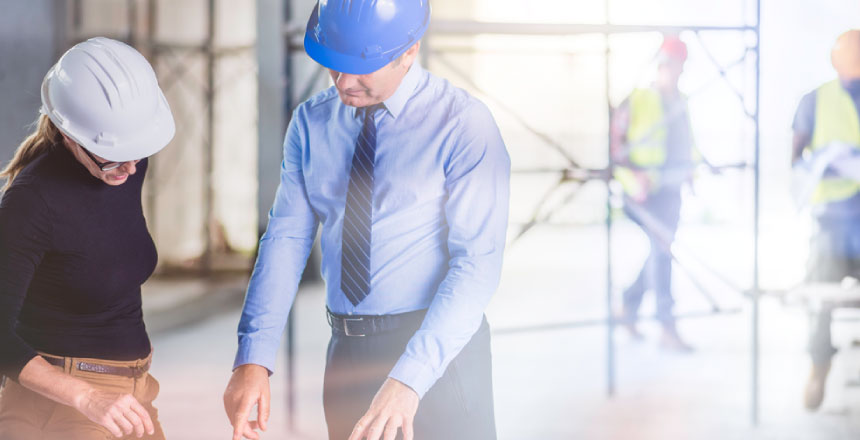
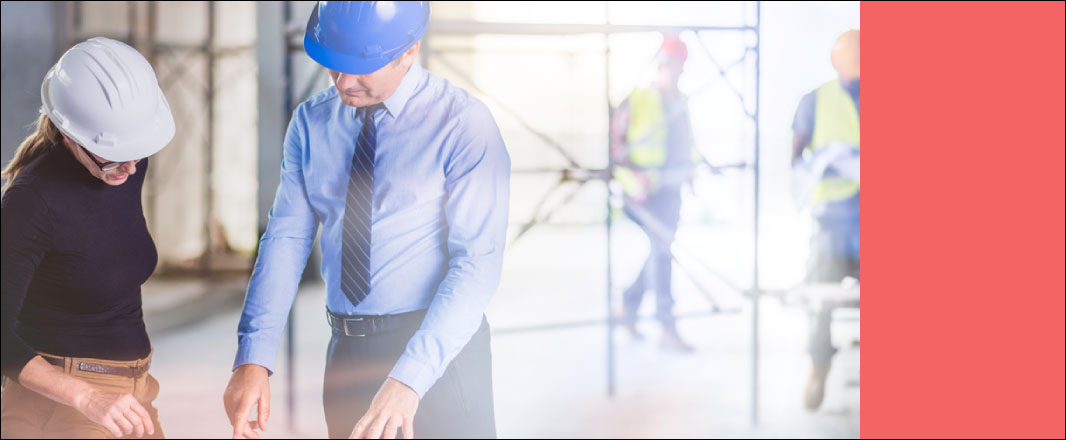
end block done

diff --git a/src/components/page-what-we-do/what-we-do.style.scss b/src/components/page-what-we-do/what-we-do.style.scss
@@ -15,8 +15,8 @@
     padding-top: 8.7rem;
     background-image:  url("./../../images/small/tantum-engineer-planning.jpg"),
     linear-gradient(to left, #e8e6e6 20.5rem, rgba(0,0,0,0) 20.5rem );
-    background-position: center 3rem, left  -15rem;
-    background-size: cover  17.1rem;
+    background-position: left 3rem, left  -15rem;
+    background-size: auto  17.1rem;
     background-repeat: no-repeat;
     padding-bottom: 2.5rem;
     .content{
@@ -37,4 +37,107 @@
             text-align: center;
         }
     }
+}
+
+@media screen and (min-width:768px) and (max-width:1023px){
+
+    .tantum-block{
+        margin-bottom: 4rem;
+       
+        h2{
+            font-size: 3.2rem;
+            font-family: "Playfair Display", serif;
+        }
+        p{
+            line-height: 1.5;
+            font-size: 1.6rem;
+        }
+        button{
+            min-width: 13.6rem;
+            font-size: 1.4rem;
+        }
+    }
+    
+
+    .tantum-block.end-to-end{
+        border-top: 1px solid #000;
+        padding-top: 25.3rem;
+        background-image:  url("./../../images/medium/tantum-engineer-planning.jpg"),
+        linear-gradient(to left, #e8e6e6 46.9rem, rgba(0,0,0,0) 20.5rem );
+        background-position: left 6.2rem, left  -10.5rem;
+        background-size: auto  37.8rem;
+        background-repeat: no-repeat;
+        padding-bottom: 2.5rem;
+        .content{
+            width: 46.9rem;
+            margin-left: auto;
+            .content-info{
+                background: #fff;
+                padding: 3rem;
+                p{
+                    color: #000;
+                    padding-top: 1.5rem;
+                }
+            }
+            .content-btn{
+                background: #e8e6e6;
+                padding: 3.5rem 0;
+                text-align: center;
+            }
+        }
+    }
+    
+
+}
+
+@media screen and (min-width:1024px){
+
+    .tantum-block{
+        margin-bottom: 4rem;
+       
+        h2{
+            font-size: 4.2rem; /*x*/
+            font-family: "Playfair Display", serif;
+        }
+        p{
+            line-height: 1.5;
+            font-size: 2rem; /*x*/
+        }
+        button{
+            min-width: 14rem;
+            font-size: 1.4rem;
+        }
+    }
+    
+
+    .tantum-block.end-to-end{
+        border-top: 1px solid #000;
+        margin-bottom: 13.8rem; /*x*/
+        padding-top: 23rem; /*x*/
+        background-image:  url("./../../images/large/tantum-engineer-planning.jpg"), /*x*/
+        linear-gradient(to left, #e8e6e6 46.9rem, rgba(0,0,0,0) 20.5rem );
+        background-position: left 6.9rem, left  -10.5rem; /*x*/
+        background-size: auto  37.8rem;
+        background-repeat: no-repeat;
+        padding-bottom: 2.5rem;
+        .content{
+            width: 55.4rem; /*x*/
+            margin-left: auto;
+            .content-info{
+                background: #fff;
+                padding: 3rem;
+                p{
+                    color: #000;
+                    padding-top: 1.5rem;
+                }
+            }
+            .content-btn{
+                background: #e8e6e6;
+                padding: 4.5rem 0; /*x*/
+                text-align: center;
+            }
+        }
+    }
+    
+
 }
